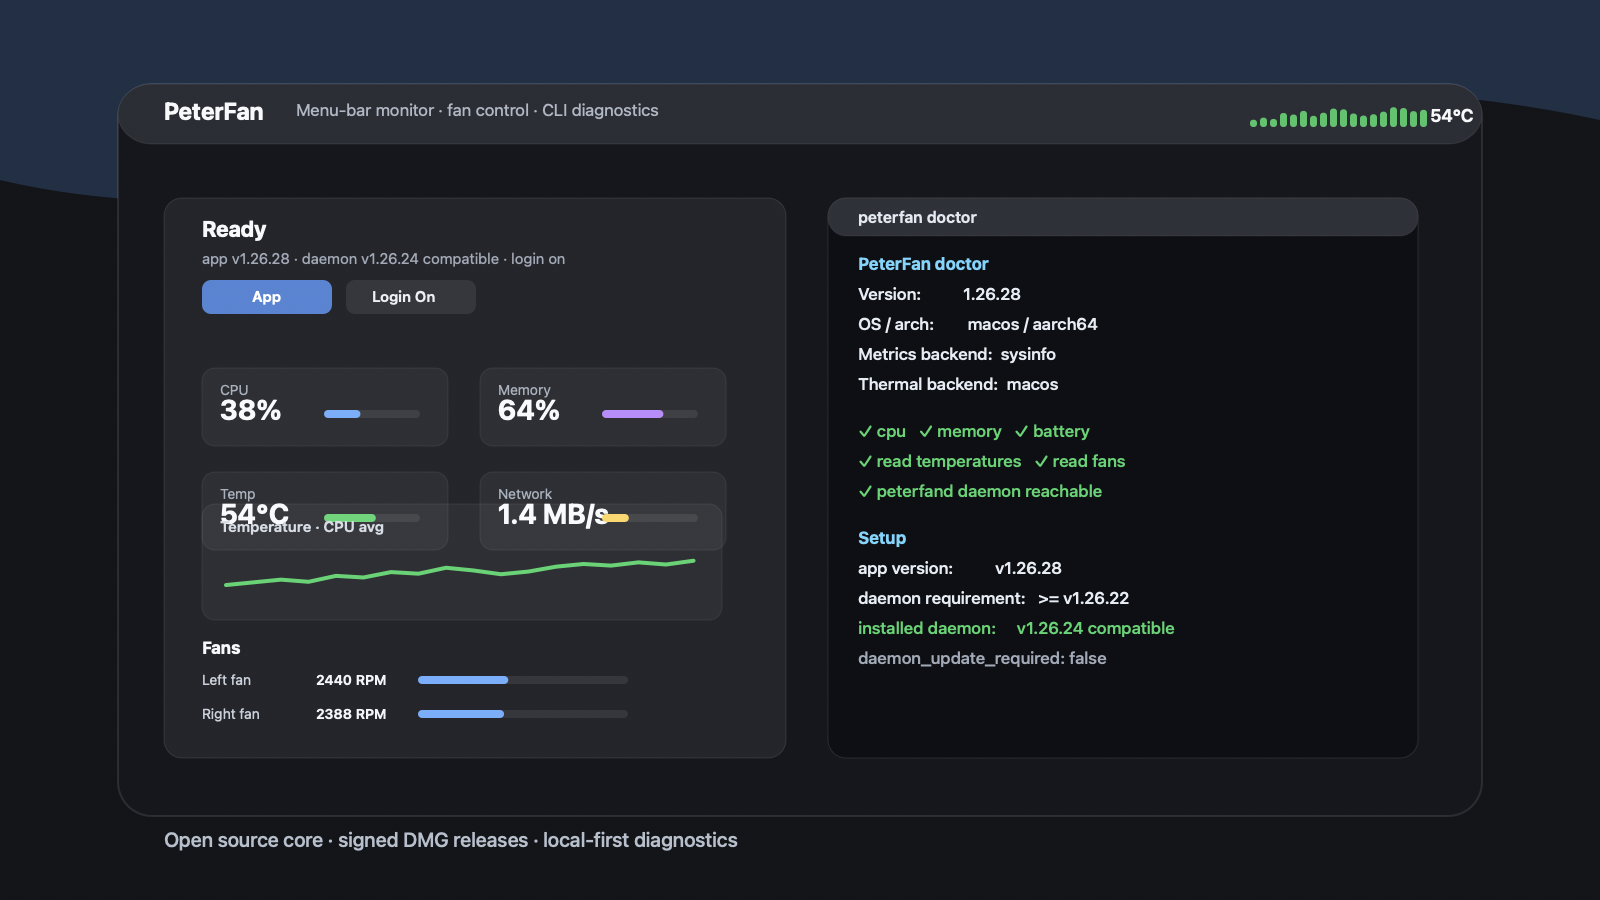
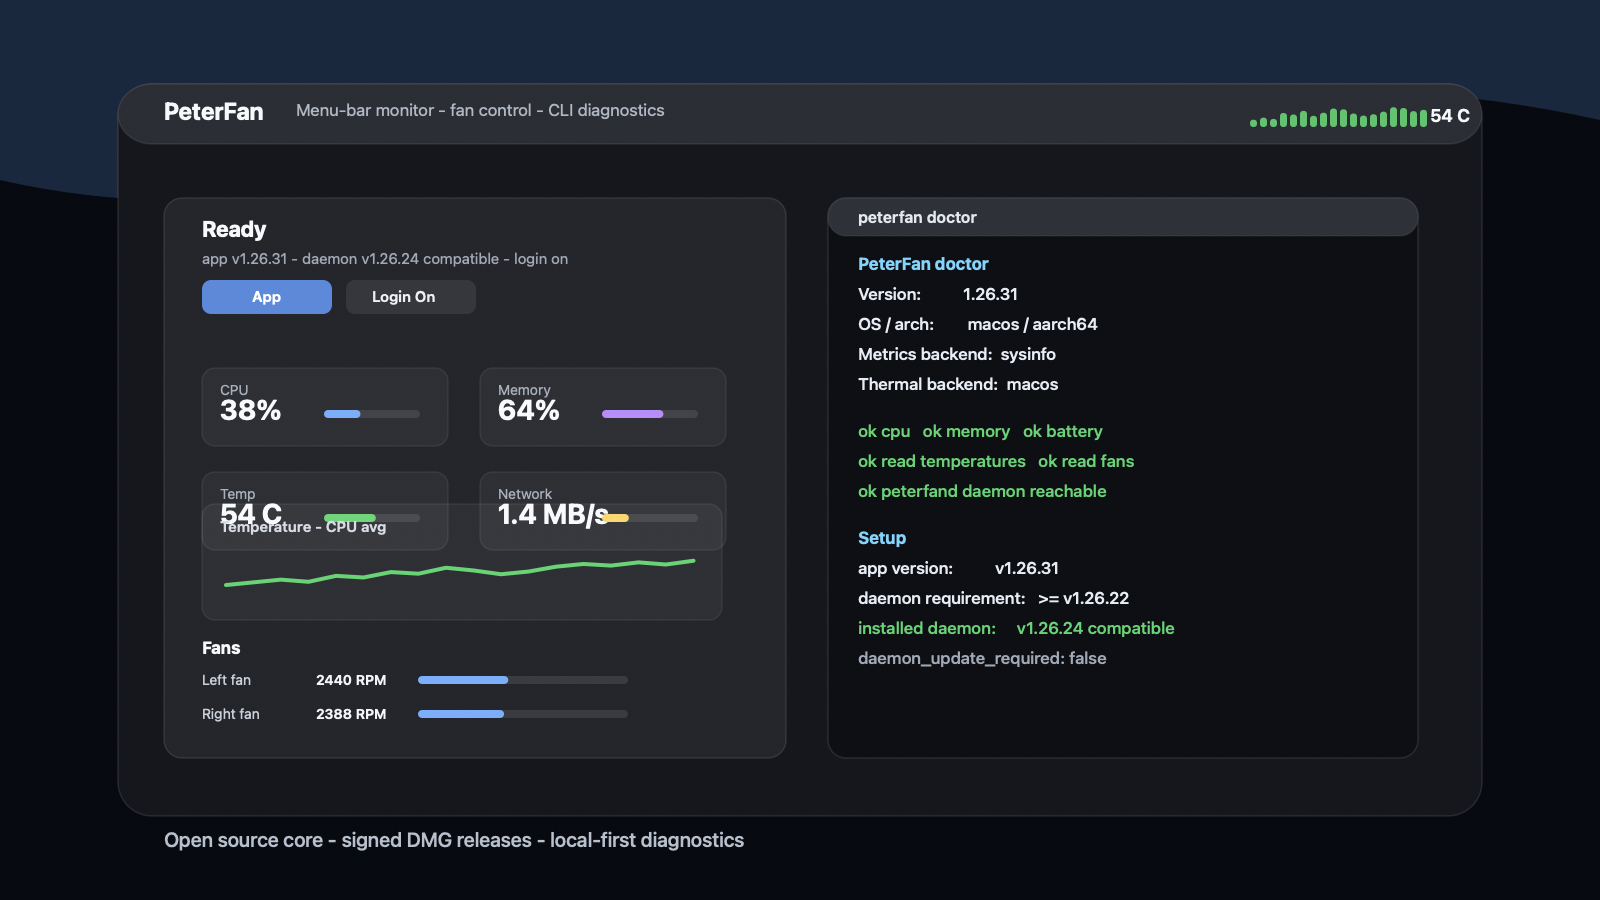
Release v1.26.31

diff --git a/scripts/render-readme-overview.swift b/scripts/render-readme-overview.swift
@@ -1,0 +1,180 @@
+#!/usr/bin/env swift
+import AppKit
+import Foundation
+
+let outputPath = CommandLine.arguments.dropFirst().first ?? "docs/images/peterfan-readme-overview.png"
+let version = readWorkspaceVersion() ?? "dev"
+let size = NSSize(width: 1600, height: 900)
+let image = NSImage(size: size)
+
+func readWorkspaceVersion() -> String? {
+    guard let cargo = try? String(contentsOfFile: "Cargo.toml", encoding: .utf8) else { return nil }
+    var inWorkspacePackage = false
+    for rawLine in cargo.split(separator: "\n") {
+        let line = rawLine.trimmingCharacters(in: .whitespaces)
+        if line == "[workspace.package]" {
+            inWorkspacePackage = true
+            continue
+        }
+        if line.hasPrefix("[") && line != "[workspace.package]" {
+            inWorkspacePackage = false
+        }
+        if inWorkspacePackage && line.hasPrefix("version = ") {
+            return line.split(separator: "\"").dropFirst().first.map(String.init)
+        }
+    }
+    return nil
+}
+
+func c(_ r: CGFloat, _ g: CGFloat, _ b: CGFloat, _ a: CGFloat = 1) -> NSColor {
+    NSColor(calibratedRed: r / 255, green: g / 255, blue: b / 255, alpha: a)
+}
+
+func rounded(_ rect: NSRect, radius: CGFloat, fill: NSColor, stroke: NSColor? = nil) {
+    let path = NSBezierPath(roundedRect: rect, xRadius: radius, yRadius: radius)
+    fill.setFill()
+    path.fill()
+    if let stroke {
+        stroke.setStroke()
+        path.lineWidth = 1.5
+        path.stroke()
+    }
+}
+
+func text(_ value: String, _ x: CGFloat, _ y: CGFloat, _ size: CGFloat, _ color: NSColor, weight: NSFont.Weight = .regular) {
+    let attrs: [NSAttributedString.Key: Any] = [
+        .font: NSFont.systemFont(ofSize: size, weight: weight),
+        .foregroundColor: color,
+    ]
+    NSString(string: value).draw(at: NSPoint(x: x, y: y), withAttributes: attrs)
+}
+
+func line(_ points: [CGPoint], color: NSColor, width: CGFloat) {
+    guard let first = points.first else { return }
+    let path = NSBezierPath()
+    path.move(to: first)
+    for point in points.dropFirst() {
+        path.line(to: point)
+    }
+    color.setStroke()
+    path.lineWidth = width
+    path.lineJoinStyle = .round
+    path.lineCapStyle = .round
+    path.stroke()
+}
+
+func meter(_ x: CGFloat, _ y: CGFloat, _ width: CGFloat, _ value: CGFloat, _ color: NSColor) {
+    rounded(NSRect(x: x, y: y, width: width, height: 8), radius: 4, fill: c(255, 255, 255, 0.10))
+    rounded(NSRect(x: x, y: y, width: max(10, width * value), height: 8), radius: 4, fill: color)
+}
+
+image.lockFocus()
+c(8, 10, 14).setFill()
+NSRect(origin: .zero, size: size).fill()
+
+let wave = NSBezierPath()
+wave.move(to: CGPoint(x: 0, y: 720))
+wave.curve(to: CGPoint(x: 1600, y: 780), controlPoint1: CGPoint(x: 430, y: 620), controlPoint2: CGPoint(x: 1040, y: 905))
+wave.line(to: CGPoint(x: 1600, y: 900))
+wave.line(to: CGPoint(x: 0, y: 900))
+wave.close()
+c(47, 96, 170, 0.28).setFill()
+wave.fill()
+
+rounded(NSRect(x: 118, y: 84, width: 1364, height: 732), radius: 34, fill: c(17, 18, 22), stroke: c(255, 255, 255, 0.10))
+rounded(NSRect(x: 118, y: 756, width: 1364, height: 60), radius: 34, fill: c(32, 34, 40), stroke: c(255, 255, 255, 0.08))
+
+text("PeterFan", 164, 775, 24, c(245, 247, 250), weight: .bold)
+text("Menu-bar monitor - fan control - CLI diagnostics", 296, 780, 17, c(159, 169, 184))
+let spark: [CGFloat] = [0.28, 0.36, 0.31, 0.54, 0.48, 0.62, 0.43, 0.55, 0.71, 0.68, 0.52, 0.44, 0.49, 0.59, 0.76, 0.73, 0.61, 0.66]
+for (i, value) in spark.enumerated() {
+    rounded(NSRect(x: 1250 + CGFloat(i * 10), y: 773, width: 7, height: 26 * value), radius: 3, fill: c(48, 209, 88, 0.9))
+}
+text("54 C", 1430, 774, 18, c(245, 247, 250), weight: .semibold)
+
+let panel = NSRect(x: 164, y: 142, width: 622, height: 560)
+rounded(panel, radius: 18, fill: c(27, 28, 32), stroke: c(255, 255, 255, 0.10))
+text("Ready", 202, 658, 22, c(245, 247, 250), weight: .bold)
+text("app v\(version) - daemon v1.26.24 compatible - login on", 202, 632, 15, c(143, 153, 169))
+rounded(NSRect(x: 202, y: 586, width: 130, height: 34), radius: 9, fill: c(64, 116, 216))
+text("App", 252, 594, 15, .white, weight: .semibold)
+rounded(NSRect(x: 346, y: 586, width: 130, height: 34), radius: 9, fill: c(255, 255, 255, 0.08))
+text("Login On", 372, 594, 15, c(231, 235, 242), weight: .semibold)
+
+let cards: [(String, String, CGFloat, NSColor)] = [
+    ("CPU", "38%", 0.38, c(91, 157, 255)),
+    ("Memory", "64%", 0.64, c(175, 112, 255)),
+    ("Temp", "54 C", 0.54, c(48, 209, 88)),
+    ("Network", "1.4 MB/s", 0.28, c(255, 204, 68)),
+]
+for (index, card) in cards.enumerated() {
+    let x = 202 + CGFloat(index % 2) * 278
+    let y = 454 - CGFloat(index / 2) * 104
+    rounded(NSRect(x: x, y: y, width: 246, height: 78), radius: 13, fill: c(255, 255, 255, 0.045), stroke: c(255, 255, 255, 0.07))
+    text(card.0, x + 18, y + 48, 14, c(151, 161, 176))
+    text(card.1, x + 18, y + 20, 28, c(246, 248, 252), weight: .bold)
+    meter(x + 122, y + 28, 96, card.2, card.3)
+}
+
+let chart = NSRect(x: 202, y: 280, width: 520, height: 116)
+rounded(chart, radius: 13, fill: c(255, 255, 255, 0.045), stroke: c(255, 255, 255, 0.07))
+text("Temperature - CPU avg", 220, 364, 15, c(205, 212, 224), weight: .semibold)
+let temps: [CGFloat] = [0.24, 0.29, 0.34, 0.30, 0.41, 0.38, 0.48, 0.45, 0.56, 0.51, 0.44, 0.49, 0.58, 0.63, 0.60, 0.66, 0.62, 0.69]
+let points = temps.enumerated().map { index, value in
+    CGPoint(x: 226 + CGFloat(index) * 27.5, y: 302 + value * 54)
+}
+line(points, color: c(48, 209, 88), width: 4)
+
+text("Fans", 202, 242, 17, c(245, 247, 250), weight: .bold)
+for row in 0..<2 {
+    let y = 212 - CGFloat(row * 34)
+    text(row == 0 ? "Left fan" : "Right fan", 202, y, 14, c(191, 199, 211))
+    text(row == 0 ? "2440 RPM" : "2388 RPM", 316, y, 14, c(239, 242, 247), weight: .semibold)
+    meter(418, y + 4, 210, row == 0 ? 0.43 : 0.41, c(91, 157, 255))
+}
+
+let term = NSRect(x: 828, y: 142, width: 590, height: 560)
+rounded(term, radius: 18, fill: c(12, 13, 16), stroke: c(255, 255, 255, 0.10))
+rounded(NSRect(x: 828, y: 664, width: 590, height: 38), radius: 18, fill: c(35, 37, 43), stroke: c(255, 255, 255, 0.06))
+text("peterfan doctor", 858, 673, 16, c(220, 226, 238), weight: .semibold)
+let terminalLines: [(String, NSColor, NSFont.Weight)] = [
+    ("PeterFan doctor", c(91, 205, 255), .bold),
+    ("Version:          \(version)", c(224, 231, 242), .medium),
+    ("OS / arch:        macos / aarch64", c(224, 231, 242), .medium),
+    ("Metrics backend:  sysinfo", c(224, 231, 242), .medium),
+    ("Thermal backend:  macos", c(224, 231, 242), .medium),
+    ("", .white, .regular),
+    ("ok cpu   ok memory   ok battery", c(48, 209, 88), .medium),
+    ("ok read temperatures   ok read fans", c(48, 209, 88), .medium),
+    ("ok peterfand daemon reachable", c(48, 209, 88), .medium),
+    ("", .white, .regular),
+    ("Setup", c(91, 205, 255), .bold),
+    ("app version:          v\(version)", c(224, 231, 242), .medium),
+    ("daemon requirement:   >= v1.26.22", c(224, 231, 242), .medium),
+    ("installed daemon:     v1.26.24 compatible", c(48, 209, 88), .medium),
+    ("daemon_update_required: false", c(143, 153, 169), .medium),
+]
+var y: CGFloat = 626
+for lineText in terminalLines {
+    if lineText.0.isEmpty {
+        y -= 17
+        continue
+    }
+    text(lineText.0, 858, y, 17, lineText.1, weight: lineText.2)
+    y -= 30
+}
+
+text("Open source core - signed DMG releases - local-first diagnostics", 164, 48, 20, c(167, 178, 194), weight: .medium)
+image.unlockFocus()
+
+guard let tiff = image.tiffRepresentation,
+      let rep = NSBitmapImageRep(data: tiff),
+      let data = rep.representation(using: .png, properties: [:]) else {
+    fputs("error: could not render PNG\n", stderr)
+    exit(1)
+}
+
+let outputURL = URL(fileURLWithPath: outputPath)
+try FileManager.default.createDirectory(at: outputURL.deletingLastPathComponent(), withIntermediateDirectories: true)
+try data.write(to: outputURL)
+print(outputPath)

diff --git a/CHANGELOG.md b/CHANGELOG.md
@@ -6,6 +6,15 @@ adheres to [Semantic Versioning](https://semver.org/spec/v2.0.0.html).
 
 ## [Unreleased]
 
+## [1.26.31] — README 이미지 렌더러
+
+### Changed
+- **README overview 이미지 렌더러 추가** — `scripts/render-readme-overview.swift`로
+  오픈소스 첫 화면 이미지를 재생성할 수 있게 하고, 이미지 안의 앱 버전은
+  `Cargo.toml`에서 자동으로 읽도록 함.
+- **문서 검사 강화** — `scripts/check-docs.sh`가 README overview 렌더러의
+  실행 가능 여부까지 확인하도록 함.
+
 ## [1.26.30] — 문서 신선도 자동 검사
 
 ### Changed

diff --git a/README.ko.md b/README.ko.md
@@ -47,7 +47,7 @@ Tiny · Simple · Beautiful · Safe · Extensible · Cross-platform
 
 ## 현재 상태
 
-**베타 — v1.26.30.** 활발히 개발 중이며, 아래 표는 실제로 출시된 기능을 그대로 반영합니다:
+**베타 — v1.26.31.** 활발히 개발 중이며, 아래 표는 실제로 출시된 기능을 그대로 반영합니다:
 
 | 영역 | 상태 |
 | --- | --- |
@@ -186,7 +186,7 @@ cargo run -p peterfan-menubar
 ### 예시: `peterfan status`
 
 ```text
-PeterFan v1.26.30
+PeterFan v1.26.31
 backend: sysinfo + macos  ·  Darwin 26.1  ·  up 5d 7h 8m
 
 CPU · Apple M3 Max

diff --git a/README.md b/README.md
@@ -243,6 +243,7 @@ Maintainer reminder before every version bump:
 
 - update `CHANGELOG.md`, `Cargo.toml`, and `Cargo.lock`
 - refresh README screenshots when the menu-bar or diagnostics UI changes
+- run `scripts/render-readme-overview.swift`
 - run `scripts/check-docs.sh`
 - run `cargo fmt --check`, `cargo test --workspace`, and
   `cargo clippy --workspace --all-targets -- -D warnings`
